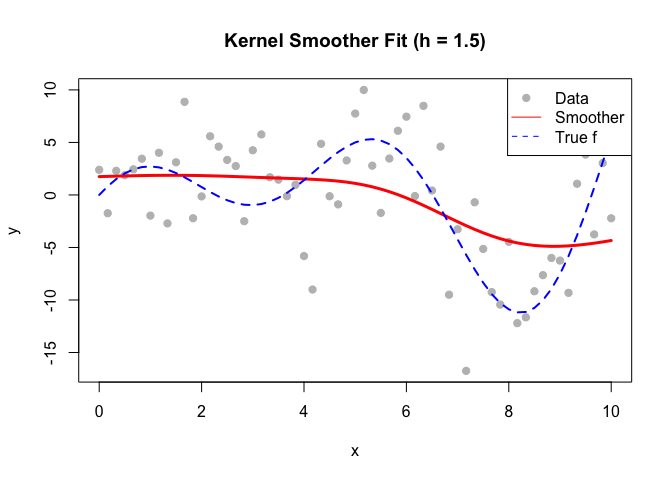
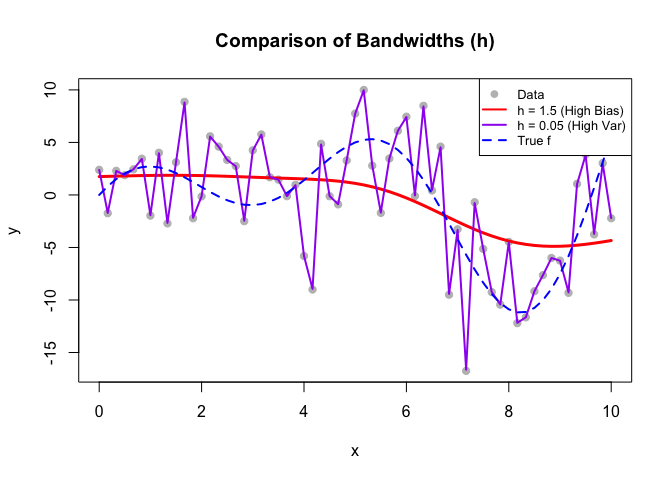
fixed formatting

Changed region(s): [[0.4062, 0.1875, 0.9375, 0.7812], [0.125, 0.2188, 0.4062, 0.4688], [0.3125, 0.0625, 0.75, 0.125]]

diff --git a/Statistical Computing/KernelSmoothing.md b/Statistical Computing/KernelSmoothing.md
@@ -63,12 +63,24 @@ Quick graph showing the generator function, random points and a smoothed
 output
 
 ``` r
-plot(x, y, col = "gray", pch = 19, main = "Kernel Smoother Fit (h = 1.5)")
-lines(x, fhat, col = "red", lwd = 3)
-lines(x, f, col = "blue", lwd = 2, lty = 2)
+S_high <- kernel_smoother(x, 1.5)
+fhat_high <- S_high %*% y
 
-legend("topright", legend = c("Data", "Smoother", "True f"),
-       col = c("gray", "red", "blue"), pch = c(19, NA, NA), lty = c(NA, 1, 2))
+S_low <- kernel_smoother(x, 0.05)
+fhat_low <- S_low %*% y
+
+plot(x, y, col = "gray", pch = 19, main = "Comparison of Bandwidths (h)")
+lines(x, fhat_high, col = "red", lwd = 3)      # Smooth fit
+lines(x, fhat_low, col = "purple", lwd = 2)    # Wiggly fit
+lines(x, f, col = "blue", lwd = 2, lty = 2)    # True function
+
+legend("topright",
+       legend = c("Data", "h = 1.5 (High Bias)", "h = 0.05 (High Var)", "True f"),
+       col = c("gray", "red", "purple", "blue"),
+       pch = c(19, NA, NA, NA),
+       lty = c(NA, 1, 1, 2),
+       lwd = 2,
+       cex = 0.8)
 ```
 
 ![](images/unnamed-chunk-2-1.png)<!-- -->
